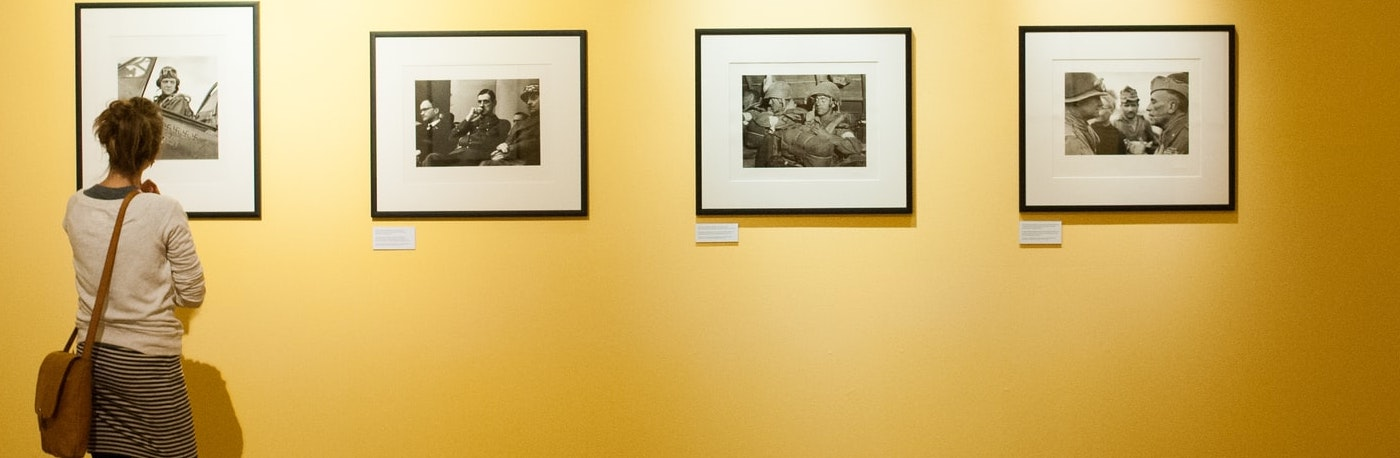
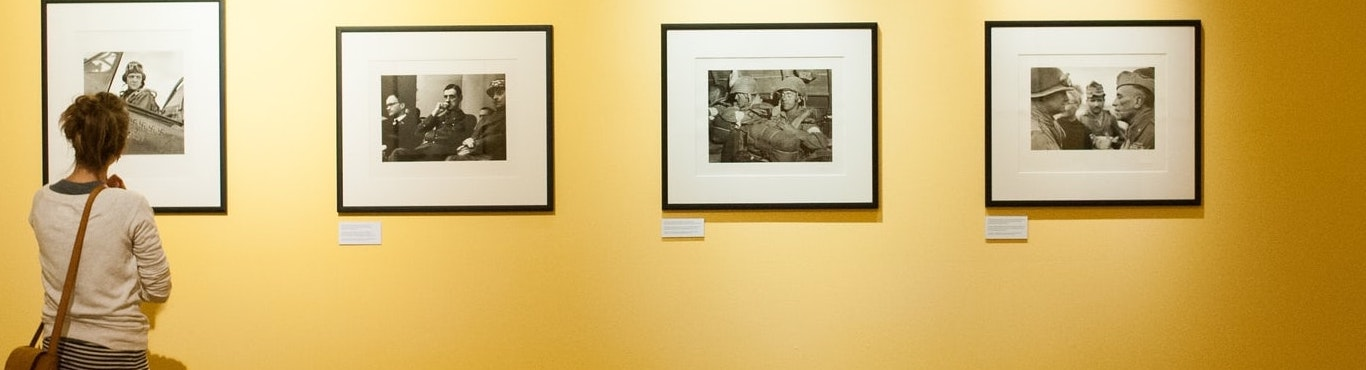
img size reduced

diff --git a/css/style.css b/css/style.css
@@ -611,7 +611,7 @@ footer {
     height: 15%;
     width: 100%;
     background-size: cover;
-    background-image: url(../images/exhibition-header.jpeg);
+    background-image: url(../images/exhibition-header.jpg);
 
 }
 
@@ -743,7 +743,7 @@ footer {
     height: 15%;
     width: 100%;
     background-size: cover;
-    background-image: url(../images/get-involved-header.jpeg);
+    background-image: url(../images/get-involved-header.jpg);
 
 }
 
@@ -797,7 +797,7 @@ footer {
     height: 15%;
     width: 100%;
     background-size: cover;
-    background-image: url(../images/visit-header.jpeg);
+    background-image: url(../images/visit-header.jpg);
 
 }
 
@@ -897,7 +897,7 @@ label {
     height: 15%;
     width: 100%;
     background-size: cover;
-    background-image: url(../images/contact-header.jpeg);
+    background-image: url(../images/contact-header.jpg);
 
 }
 
